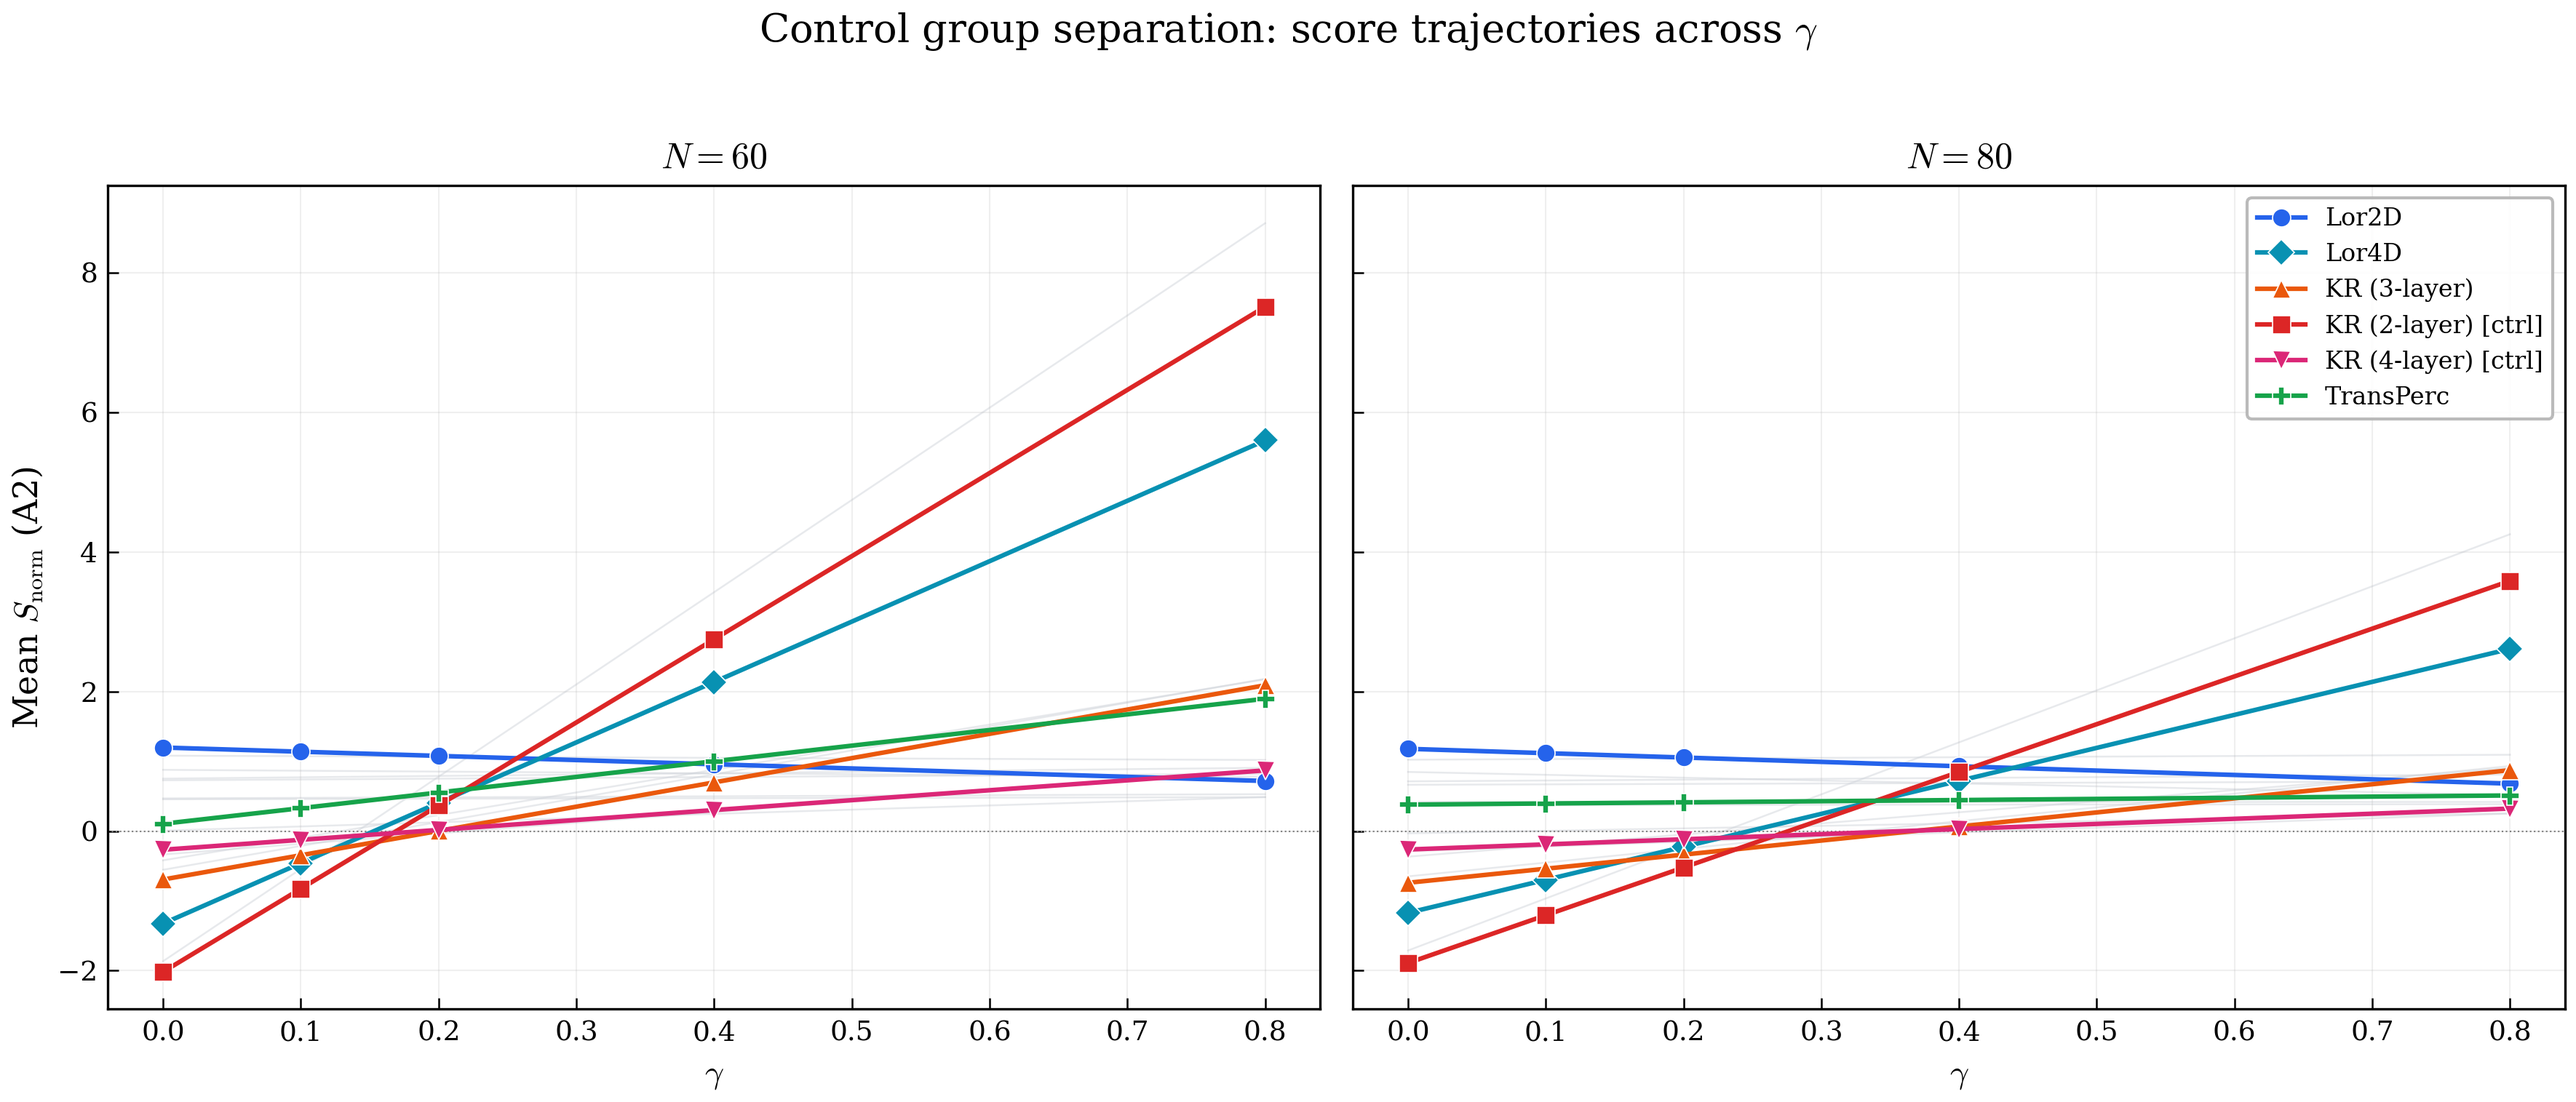
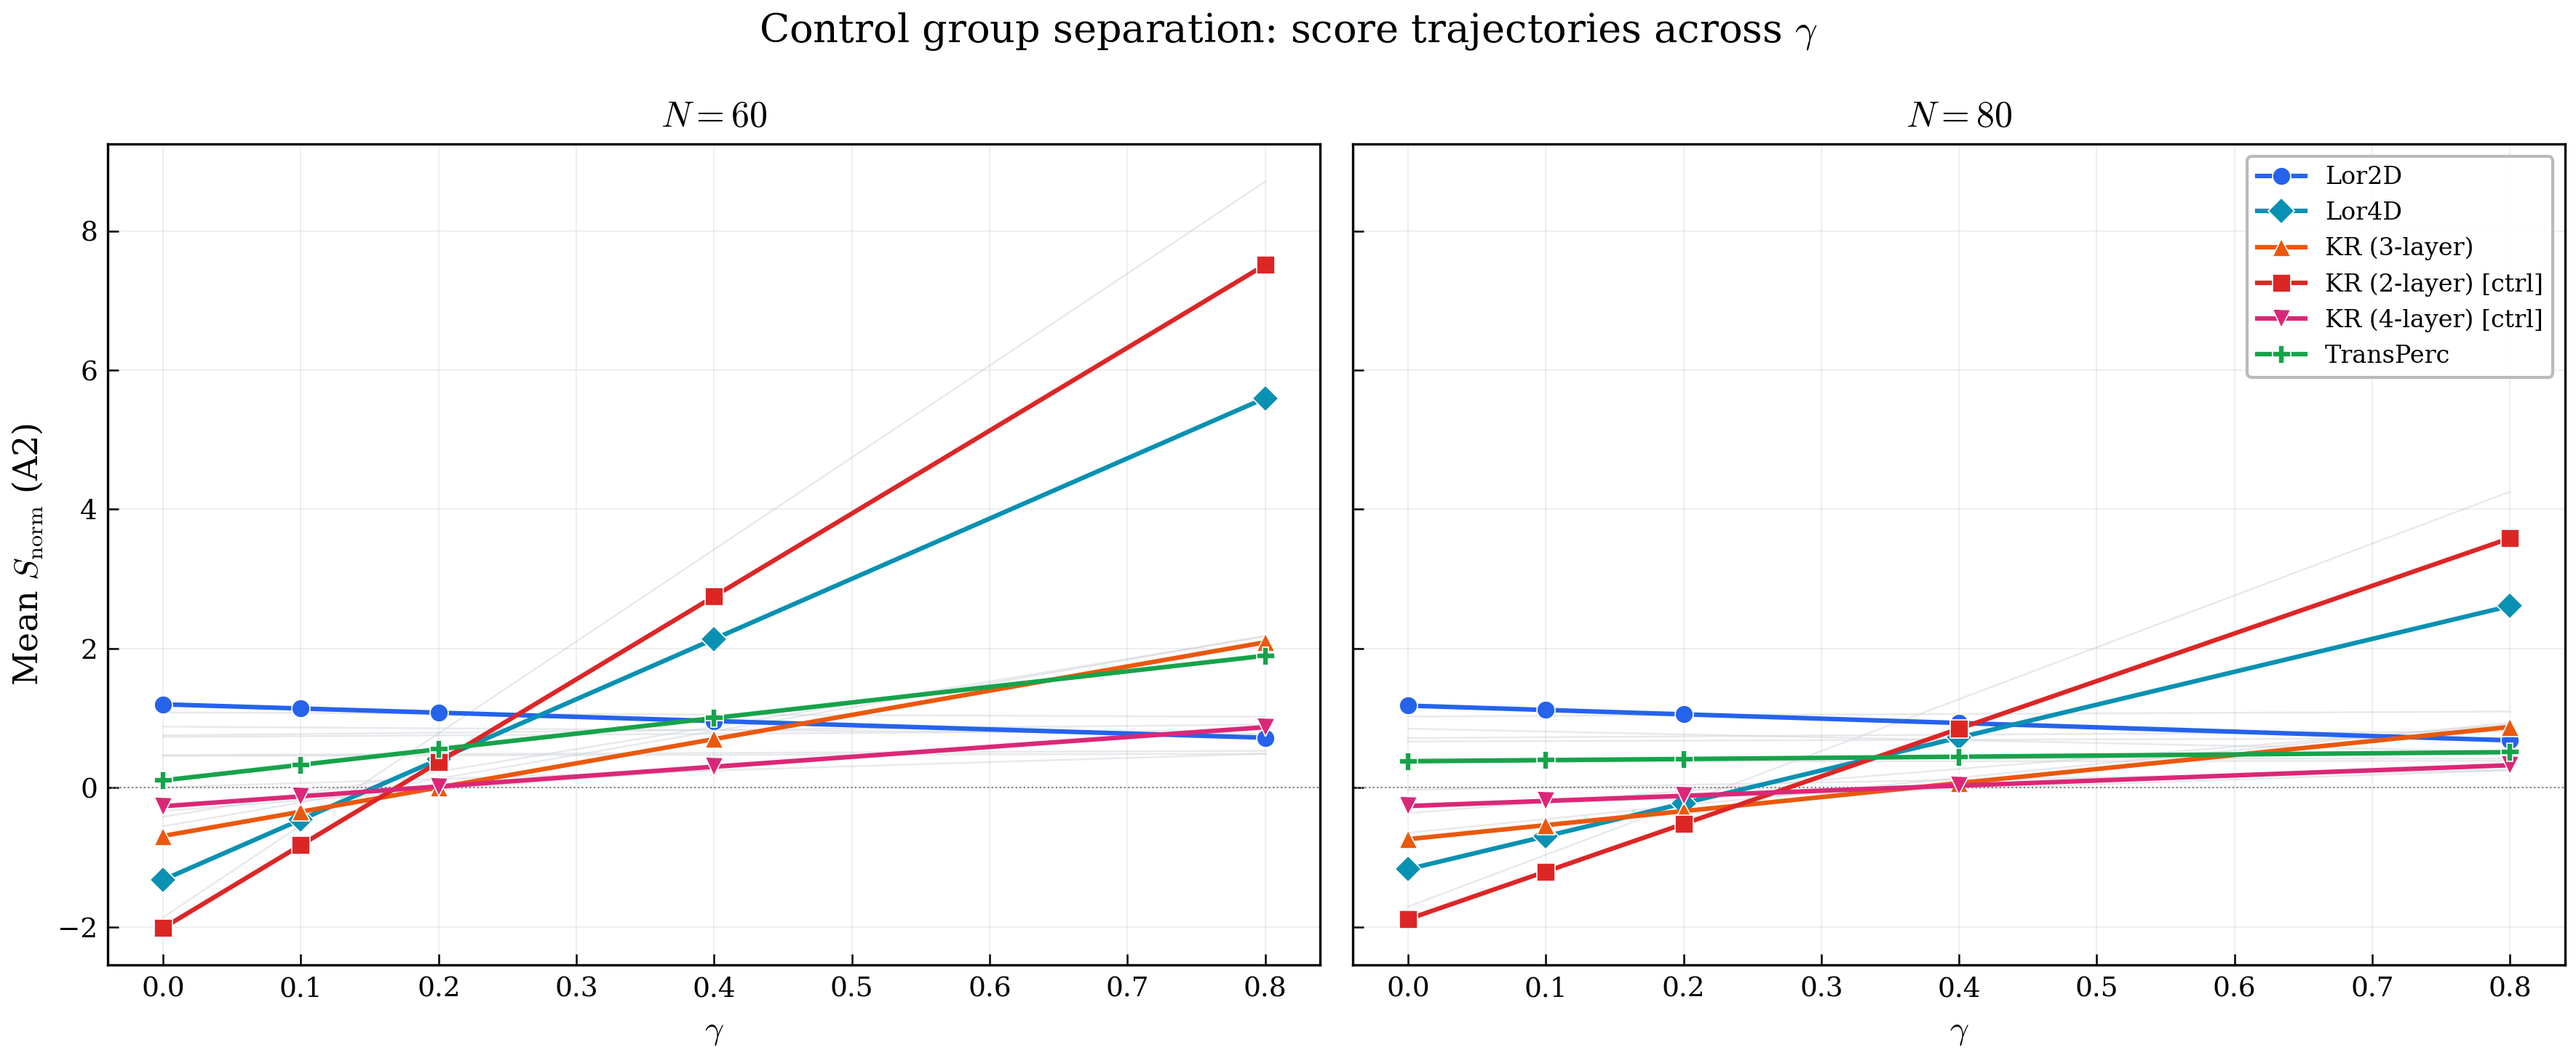
add control-group analysis scripts, improved figures, RESULTS_INDEX update
- RESULTS_INDEX.md: control group section + KR_2layer large-gamma explanation
- plot_control_group_figures.py: fix suptitle overlap, manual scatter label offsets
- _kr2layer_analysis.py: geometric sub-penalty decomposition (KR_2layer 56.4 vs Lor2D 0.4)
- _analyze_figures.py: 4-table ranking/scaling analysis

diff --git a/_kr2layer_analysis.py b/_kr2layer_analysis.py
@@ -1,0 +1,100 @@
+"""Deep analysis of KR_2layer rank inversion at large gamma.
+
+Decomposes the score into logH vs penalty contributions to explain
+why KR_2layer rises to rank #2 at gamma=0.8 despite having the worst
+geometry among all 17 families.
+"""
+import pandas as pd
+import numpy as np
+
+df = pd.read_csv("outputs/raw_samples.csv")
+
+# Focus on A2
+sub = df[df["action_mode"] == "A2"]
+
+# 1. Score decomposition: score = logH - gamma * penalty_effective
+print("=" * 90)
+print("ANALYSIS 1: Score decomposition for KR_2layer vs Lor2D vs Lor5D (N=80)")
+print("=" * 90)
+focus = ["KR_2layer", "lorentzian_like_2d", "lorentzian_like_5d", "KR_like"]
+for fam in focus:
+    print(f"\n  {fam}:")
+    fam_sub = sub[(sub["family"] == fam) & (sub["n"] == 80)]
+    agg = fam_sub.groupby("gamma").agg(
+        mean_logH=("log_H_mean", "mean"),
+        mean_penalty_eff=("penalty_effective", "mean"),
+        mean_geo=("penalty_geometric", "mean"),
+        mean_neutral=("penalty_neutral", "mean"),
+        mean_score=("score", "mean"),
+        mean_score_norm=("score_norm", "mean"),
+    ).reset_index()
+    for _, r in agg.iterrows():
+        logH_contrib = r["mean_logH"]
+        pen_contrib = r["gamma"] * r["mean_penalty_eff"]
+        print(f"    gamma={r['gamma']:.1f}: logH={r['mean_logH']:.1f}, "
+              f"penalty_eff={r['mean_penalty_eff']:.1f}, "
+              f"gamma*pen={pen_contrib:.1f}, "
+              f"score={r['mean_score']:.1f}, "
+              f"score_norm={r['mean_score_norm']:+.3f}")
+
+# 2. Why normalization amplifies KR_2layer at large gamma
+print("\n" + "=" * 90)
+print("ANALYSIS 2: Score distribution statistics per gamma (N=80)")
+print("=" * 90)
+for g in [0.0, 0.2, 0.4, 0.8]:
+    g_sub = sub[(sub["gamma"] == g) & (sub["n"] == 80)]
+    agg = g_sub.groupby("family")["score"].mean()
+    print(f"\n  gamma={g}: score range [{agg.min():.1f}, {agg.max():.1f}], "
+          f"spread={agg.max()-agg.min():.1f}, "
+          f"median={agg.median():.1f}, "
+          f"std={agg.std():.1f}")
+    # KR_2layer and Lor2D positions
+    kr2 = agg.get("KR_2layer", np.nan)
+    lor2 = agg.get("lorentzian_like_2d", np.nan)
+    print(f"    KR_2layer score={kr2:.1f}, Lor2D score={lor2:.1f}, "
+          f"KR_2layer-Lor2D={kr2-lor2:.1f}")
+
+# 3. Geometric penalty breakdown for KR_2layer
+print("\n" + "=" * 90)
+print("ANALYSIS 3: KR_2layer geometric sub-penalties vs Lor2D (N=80, gamma=0)")
+print("=" * 90)
+from generators import generate_kr_2layer, generate_lorentzian_like_2d
+from observables_geo import geometric_components, DEFAULT_GEOMETRIC_WEIGHTS
+
+weighted_keys = list(DEFAULT_GEOMETRIC_WEIGHTS.keys())
+
+for fam_name, gen_fn in [("KR_2layer", generate_kr_2layer),
+                          ("Lor2D", generate_lorentzian_like_2d)]:
+    comp_vals = {k: [] for k in weighted_keys}
+    for s in range(16):
+        p = gen_fn(n=80, seed=80000 + s)
+        comps = geometric_components(p)
+        for k in weighted_keys:
+            comp_vals[k].append(comps[k])
+    print(f"\n  {fam_name} (N=80, 16 samples):")
+    total_weighted = 0.0
+    for k in weighted_keys:
+        arr = np.array(comp_vals[k])
+        w = DEFAULT_GEOMETRIC_WEIGHTS[k]
+        contrib = arr.mean() * w
+        total_weighted += contrib
+        print(f"    {k:30s}: raw={arr.mean():.4f} (std={arr.std():.4f}), "
+              f"weight={w:.0f}, weighted={contrib:.3f}")
+    print(f"    {'TOTAL':30s}: {total_weighted:.3f}")
+
+# 4. N-scaling of the crossover gamma
+print("\n" + "=" * 90)
+print("ANALYSIS 4: At what gamma does KR_2layer first beat Lor2D? (per N)")
+print("=" * 90)
+for n_val in [20, 40, 60, 80]:
+    n_sub = sub[sub["n"] == n_val]
+    agg = n_sub.groupby(["gamma", "family"])["score_norm"].mean().reset_index()
+    for g in sorted(agg["gamma"].unique()):
+        kr2 = agg[(agg["gamma"] == g) & (agg["family"] == "KR_2layer")]["score_norm"].values[0]
+        lor2 = agg[(agg["gamma"] == g) & (agg["family"] == "lorentzian_like_2d")]["score_norm"].values[0]
+        if kr2 > lor2:
+            print(f"  N={n_val}: KR_2layer beats Lor2D at gamma={g} "
+                  f"(KR2={kr2:+.3f} vs Lor2D={lor2:+.3f})")
+            break
+    else:
+        print(f"  N={n_val}: KR_2layer never beats Lor2D in the tested gamma range")

diff --git a/_analyze_figures.py b/_analyze_figures.py
@@ -1,0 +1,70 @@
+"""Analyze control group figures data in detail."""
+import pandas as pd
+import numpy as np
+
+df = pd.read_csv("outputs/raw_samples.csv")
+
+# A2, N=80
+sub = df[(df["action_mode"] == "A2") & (df["n"] == 80)]
+agg = sub.groupby(["gamma", "family"]).agg(
+    mean_score_norm=("score_norm", "mean"),
+    std_score_norm=("score_norm", "std"),
+    mean_logH=("log_H_mean", "mean"),
+    mean_geo=("penalty_geometric", "mean"),
+    mean_neutral=("penalty_neutral", "mean"),
+).reset_index()
+
+CTRL = {"KR_2layer", "KR_4layer"}
+LOR = {"lorentzian_like_2d", "lorentzian_like_3d", "lorentzian_like_4d", "lorentzian_like_5d"}
+
+print("=" * 90)
+print("TABLE 1: A2, N=80 — Score ranking per gamma")
+print("=" * 90)
+for g in sorted(agg["gamma"].unique()):
+    sg = agg[agg["gamma"] == g].sort_values("mean_score_norm", ascending=False)
+    print(f"\n--- gamma = {g} ---")
+    for rank, (_, r) in enumerate(sg.iterrows(), 1):
+        fam = r["family"]
+        tag = " <<<CTRL>>>" if fam in CTRL else (" [Lor]" if fam in LOR else "")
+        print(f"  {rank:2d}. {fam:35s}  S_norm={r['mean_score_norm']:+.3f}  "
+              f"logH={r['mean_logH']:.1f}  geo={r['mean_geo']:.1f}{tag}")
+
+print("\n" + "=" * 90)
+print("TABLE 2: Cross-N comparison for controls and Lor2D (A2, gamma=0.2)")
+print("=" * 90)
+focus = ["KR_2layer", "KR_4layer", "KR_like", "lorentzian_like_2d", "lorentzian_like_4d"]
+sub2 = df[(df["action_mode"] == "A2") & (df["gamma"] == 0.2)]
+agg2 = sub2.groupby(["n", "family"]).agg(
+    mean_score_norm=("score_norm", "mean"),
+    mean_logH=("log_H_mean", "mean"),
+    mean_geo=("penalty_geometric", "mean"),
+).reset_index()
+agg2 = agg2[agg2["family"].isin(focus)]
+pivot = agg2.pivot(index="family", columns="n", values="mean_score_norm")
+print(pivot.to_string(float_format=lambda x: f"{x:+.3f}"))
+
+print("\n" + "=" * 90)
+print("TABLE 3: KR_2layer logH vs geometric penalty across N (gamma=0)")
+print("=" * 90)
+sub3 = df[(df["action_mode"] == "A2") & (df["gamma"] == 0.0) & (df["family"] == "KR_2layer")]
+agg3 = sub3.groupby("n").agg(
+    mean_logH=("log_H_mean", "mean"),
+    std_logH=("log_H_mean", "std"),
+    mean_geo=("penalty_geometric", "mean"),
+    std_geo=("penalty_geometric", "std"),
+    mean_neutral=("penalty_neutral", "mean"),
+).reset_index()
+print(agg3.to_string(index=False, float_format=lambda x: f"{x:.3f}"))
+
+print("\n" + "=" * 90)
+print("TABLE 4: gamma sensitivity — Rank of KR_2layer across gamma values")
+print("=" * 90)
+for n_val in [20, 40, 60, 80]:
+    sub4 = df[(df["action_mode"] == "A2") & (df["n"] == n_val)]
+    agg4 = sub4.groupby(["gamma", "family"])["score_norm"].mean().reset_index()
+    ranks = []
+    for g in sorted(agg4["gamma"].unique()):
+        sg = agg4[agg4["gamma"] == g].sort_values("score_norm", ascending=False).reset_index(drop=True)
+        r = sg[sg["family"] == "KR_2layer"].index[0] + 1
+        ranks.append(f"g={g}: #{r}")
+    print(f"  N={n_val:3d}  " + "  ".join(ranks))

diff --git a/plot_control_group_figures.py b/plot_control_group_figures.py
@@ -218,9 +218,9 @@ def fig_b_separation_trajectories(df: pd.DataFrame):
     axes[0].set_ylabel(r"Mean $S_{\rm norm}$ (A2)")
     axes[1].legend(loc="best", fontsize=8, ncol=1)
 
+    fig.tight_layout(rect=[0, 0, 1, 0.93])
     fig.suptitle("Control group separation: score trajectories across "
-                 r"$\gamma$", fontsize=13, y=1.02)
-    fig.tight_layout()
+                 r"$\gamma$", fontsize=13)
     fig.savefig(OUT_DIR / "fig_control_separation.png")
     fig.savefig(OUT_DIR / "fig_control_separation.pdf")
     plt.close(fig)
@@ -241,6 +241,27 @@ def fig_c_entropy_vs_geometry(df: pd.DataFrame):
 
     fig, ax = plt.subplots(figsize=(7, 5.5))
 
+    # Manual label offsets for dense clusters
+    OFFSETS = {
+        "lorentzian_like_2d": (-35, -12),
+        "interval_order": (-40, -12),
+        "random_layered_k8_uniform": (8, -12),
+        "random_layered_k6_uniform": (-38, 6),
+        "random_layered_k6_longjump": (8, -12),
+        "random_layered_k6_tapered": (8, 8),
+        "random_layered_k6_middle_heavy": (8, -12),
+        "transitive_percolation": (-30, 8),
+        "random_layered_k4_uniform": (-30, -12),
+        "multi_layer_random": (-12, 10),
+        "KR_4layer": (-50, 10),
+        "lorentzian_like_3d": (8, 6),
+        "absolute_layered": (-5, 8),
+        "KR_like": (8, 6),
+        "lorentzian_like_4d": (8, 4),
+        "lorentzian_like_5d": (8, 4),
+        "KR_2layer": (8, 4),
+    }
+
     for _, row in agg.iterrows():
         fam = row["family"]
         c = get_category_color(fam)
@@ -249,11 +270,10 @@ def fig_c_entropy_vs_geometry(df: pd.DataFrame):
         edge = RED if fam in CONTROLS else "white"
         ax.scatter(row["mean_logH"], row["mean_geo"], c=c, s=size,
                    marker=marker, edgecolors=edge, linewidths=1.2, zorder=3)
-        # Label
-        dx, dy = 0.5, 0.02
+        oxy = OFFSETS.get(fam, (8, 4))
         ax.annotate(SHORT_NAMES.get(fam, fam),
                     (row["mean_logH"], row["mean_geo"]),
-                    textcoords="offset points", xytext=(8, 4),
+                    textcoords="offset points", xytext=oxy,
                     fontsize=6.5, color=c, alpha=0.85)
 
     # Legend patches

diff --git a/RESULTS_INDEX.md b/RESULTS_INDEX.md
@@ -101,9 +101,49 @@
     - B↔C：`Lor2D` 相对 `KR_like` 的层级优势同时对应更低惩罚和更低 `log_H`，形成有限 `gamma_c`
     - A↔C：`Lor4D` 在 `N=20..72` 上从未高于 `Lor2D` 或 `Lor3D` 的 HII，因此 A 的 4D 优势并不等同于“更深层级”
 
+## Control Group (added post hoc)
+
+- `outputs/` (full 17-family experiment)
+  - 来源配置：`config.yaml`
+  - 来源脚本：`experiment.py`
+  - 作用：包含全部 17 个 family（含 KR_2layer/KR_4layer 对照组）的完整实验，N=20/40/60/80，16 samples × 5 gammas × 3 actions = 16,320 行
+  - 关键文件：
+    - `raw_samples.csv` — 完整原始数据
+    - `summary.csv` — 分组汇总统计
+    - `bootstrap_summary.csv` — Bootstrap CI
+
+- `outputs_control/` (dedicated control experiment)
+  - 来源脚本：`control_group_experiment.py`
+  - 作用：9 族子集 × N=10-20 × 8 samples × 5 gammas，精确 logH 对比
+  - 关键结论：
+    - KR_2layer 拥有最高 logH 但最弱几何结构 → γ>0.4 时被有效筛除（排名 16-17/17）
+    - KR_4layer 与 KR_like 表现接近 → 不产生误导信号
+
+- `manuscript_figures/fig_control_*.{png,pdf}` (3 figures)
+  - 来源脚本：`plot_control_group_figures.py`
+  - **Fig A** `fig_control_ranking_heatmap`: 17 族 × 5 γ 排名热图（A2, N=80）
+    - KR_2layer 在 γ≤0.2 稳定排名 #17；γ=0.4 跃升至 #4（logH 主导）
+    - 证明 geometric penalty 在适当 γ 下有效区分几何良/劣
+  - **Fig B** `fig_control_separation`: 关键 family score_norm 轨迹（N=60, 80）
+    - Lor2D 稳定在 +1.0（不受 γ 影响）；KR_2layer 从 -1.9 线性增长至 +3.6
+    - 分离点 γ≈0.3 处 KR_2layer 超越 KR_like → 标志 logH 主导的伪信号转折
+  - **Fig C** `fig_entropy_geometry_scatter`: logH vs Π_geo 散点（N=80, A2）
+    - 各 family 类别在熵-几何平面上清晰分离
+    - Lor2D 左下角（紧致）、KR_2layer 右上角（松散）、Layered 变体聚集中间
+
+### KR_2layer 大 γ 翻转的解释
+
+KR_2layer 在 γ≥0.4 时排名跃升**不代表**其具有几何优势。机制如下：
+- `score = β·logH - γ·penalty`（A2 模式下 penalty = penalty_geometric + penalty_neutral）
+- KR_2layer 的 logH=229.7 是所有 17 族最高（因 2-layer 结构几乎不施加偏序约束）
+- 当 γ 增大时，`-γ·penalty` 项的绝对值增长受限于 penalty 有限（56.4），但 `logH` 贡献恒定
+- **Normalization 机制**：score_norm 按 n 组做 robust z-score。大 γ 下所有 family 的 score 绝对值拉开，KR_2layer 的 logH 优势被放大
+- **论文不应在 γ > γ_c 区域下结论**——γ_c 定义为 Lor2D 超越 KR_like 的阈值（~0.2-0.4），超过此点结论稳健；但继续增大 γ 会引入 logH 主导的伪信号
+
 ## Rule
 
 简单规则：
 
 - 冻结配置直接产出的结果，归 `confirmatory`
 - 为解释当前失败点或扩展候选空间新增的试验，归 `exploratory`
+- 对照组实验及图表，归 `control group`
